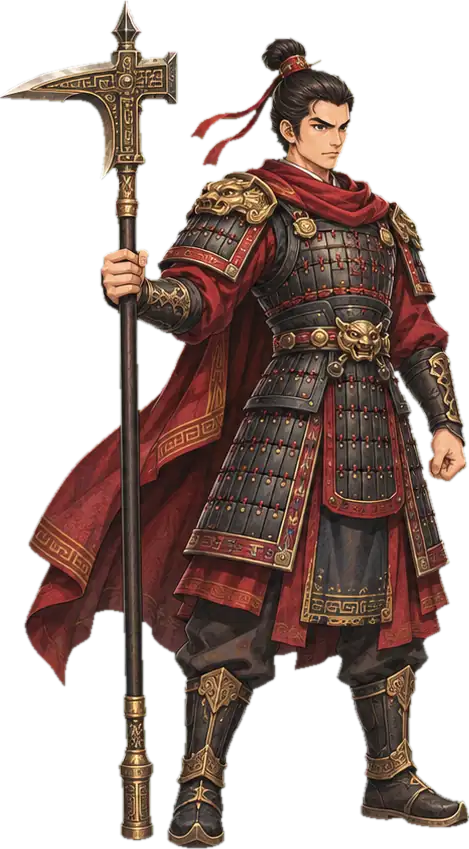
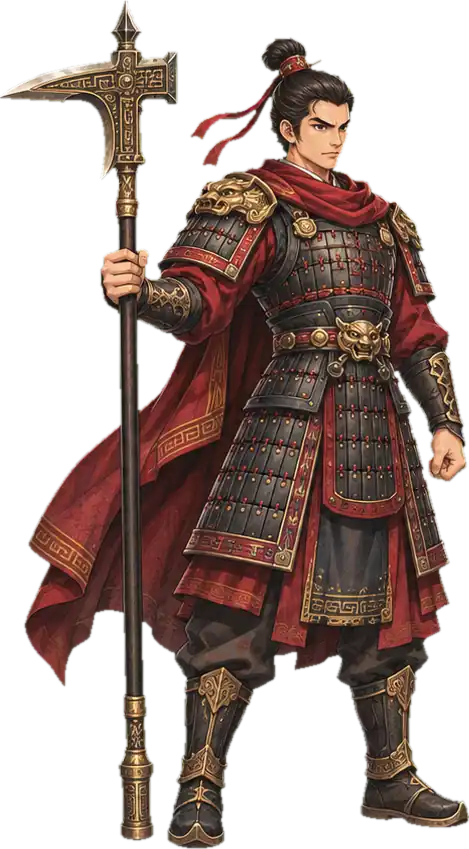
压低立绘/城镇背景画质以满足 16MB（构建中）
Claude-Session: https://claude.ai/code/session_01Ug7SvjxsTvGWtWQTYLfcGg

diff --git a/js/assets.js b/js/assets.js
@@ -11,6 +11,8 @@ window.ASSETS = {
   "b_fox": "assets/b_fox.webp",
   "b_girl": "assets/b_girl.webp",
   "b_hawk": "assets/b_hawk.webp",
+  "b_novice_f": "assets/b_novice_f.webp",
+  "b_novice_m": "assets/b_novice_m.webp",
   "b_player": "assets/b_player.webp",
   "b_rabbit": "assets/b_rabbit.webp",
   "b_tiger": "assets/b_tiger.webp",
@@ -178,11 +180,15 @@ window.ASSETS = {
   "walk_b_dao_qm_m": "assets/walk_b_dao_qm_m.webp",
   "walk_b_dao_ty": "assets/walk_b_dao_ty.webp",
   "walk_b_dao_ty_m": "assets/walk_b_dao_ty_m.webp",
+  "walk_b_novice_f": "assets/walk_b_novice_f.webp",
+  "walk_b_novice_m": "assets/walk_b_novice_m.webp",
   "walk_f": "assets/walk_f.webp",
   "walk_f_dao_qm": "assets/walk_f_dao_qm.webp",
   "walk_f_dao_qm_m": "assets/walk_f_dao_qm_m.webp",
   "walk_f_dao_ty": "assets/walk_f_dao_ty.webp",
   "walk_f_dao_ty_m": "assets/walk_f_dao_ty_m.webp",
+  "walk_f_novice_f": "assets/walk_f_novice_f.webp",
+  "walk_f_novice_m": "assets/walk_f_novice_m.webp",
   "wolf": "assets/wolf.webp",
   "world": "assets/world.webp"
  },
@@ -359,6 +365,34 @@ window.ASSETS = {
   ],
   "b_dao_qm": [
    112.0,
+   126.0
+  ],
+  "walk_f_novice_f": [
+   101.0,
+   121.0,
+   59.627906976744185
+  ],
+  "walk_b_novice_f": [
+   90.0,
+   123.5,
+   48.051238257899236
+  ],
+  "b_novice_f": [
+   117.0,
+   126.0
+  ],
+  "walk_f_novice_m": [
+   107.5,
+   120.0,
+   61.0
+  ],
+  "walk_b_novice_m": [
+   80.0,
+   122.5,
+   35.21258503401361
+  ],
+  "b_novice_m": [
+   128.0,
    126.0
   ],
   "walk_f_dao_ty_m": [

diff --git a/build.py b/build.py
@@ -155,7 +155,7 @@ def portraits(src, names):
     assert len(runs)==len(names),(src,runs)
     for n,(x0,x1) in zip(names,runs):
         c=im.crop((x0,0,x1,im.height)); c=c.crop(c.getchannel('A').point(lambda v:255 if v>40 else 0).getbbox())
-        c.save(f'{AD}/cls_{n}.webp',quality=50,method=6)
+        c.save(f'{AD}/cls_{n}.webp',quality=40,method=6)
         hx=c.width*HEAD_X[n]; sz=int(c.height*0.2); l=int(max(0,min(c.width-sz,hx-sz/2))); t=int(c.height*0.02)
         hd=Image.new('RGBA',(sz,sz),(43,36,64,255)); hd.alpha_composite(c.crop((l,t,l+sz,t+sz)))
         hd.resize((160,160),Image.LANCZOS).save(f'{AD}/head_{n}.webp',quality=90)
@@ -171,21 +171,21 @@ def dao_head(c,name):
     hd=Image.new('RGBA',(sz,sz),(43,36,64,255)); hd.alpha_composite(c.crop((l,t,l+sz,t+sz))); hd.resize((160,160),Image.LANCZOS).save(f'{AD}/head_{name}.webp',quality=90)
 for n,src in [('dao_ty',DA+'/port_ty.png' if os.path.exists(DA+'/port_ty.png') else DA+'/ref.png'),('dao_qm',DA+'/port_qm.png')]:
     c=keyed(src); c=c.crop(c.getchannel('A').point(lambda v:255 if v>40 else 0).getbbox())
-    c=c.resize((round(c.width*900/c.height),900),Image.LANCZOS); c.save(f'{AD}/cls_{n}.webp',quality=80,method=6); dao_head(c,n)
+    c=c.resize((round(c.width*900/c.height),900),Image.LANCZOS); c.save(f'{AD}/cls_{n}.webp',quality=64,method=6); dao_head(c,n)
 # 新手男 / 女：参考 kunkunxunqin 创角预览里的赤绳少年 / 青带少女，用本游戏的手绘画风重画（art-src/novice-kk/）
 NK=G+'/novice-kk'
 for k,n in [('nf','novice_f'),('nm','novice_m')]:
     walk_sheet(f'{NK}/walkf_{k}.png','walk_f_'+n,118); walk_sheet(f'{NK}/walkb_{k}.png','walk_b_'+n,118)
     cut_row(f'{NK}/back_{k}.png',['b_'+n],{'b_'+n:126})
     c=keyed(f'{NK}/port_{k}.png'); c=c.crop(c.getchannel('A').point(lambda v:255 if v>40 else 0).getbbox())
-    c=c.resize((round(c.width*900/c.height),900),Image.LANCZOS); c.save(f'{AD}/cls_{n}.webp',quality=80,method=6); dao_head(c,n)
+    c=c.resize((round(c.width*900/c.height),900),Image.LANCZOS); c.save(f'{AD}/cls_{n}.webp',quality=64,method=6); dao_head(c,n)
 # 道家男角色（天音 / 琴魔）：人物参考新手男，风格参考女主
 DM=G+'/daoist-m'
 for k in ['ty','qm']:
     n='dao_'+k+'_m'
     walk_sheet(f'{DM}/walkf_{k}.png','walk_f_'+n,118); walk_sheet(f'{DM}/walkb_{k}.png','walk_b_'+n,118)
     c=keyed(f'{DM}/port_{k}.png'); c=c.crop(c.getchannel('A').point(lambda v:255 if v>40 else 0).getbbox())
-    c=c.resize((round(c.width*900/c.height),900),Image.LANCZOS); c.save(f'{AD}/cls_{n}.webp',quality=80,method=6); dao_head(c,n)
+    c=c.resize((round(c.width*900/c.height),900),Image.LANCZOS); c.save(f'{AD}/cls_{n}.webp',quality=64,method=6); dao_head(c,n)
 cut_row(DM+'/back.png',['b_dao_ty_m','b_dao_qm_m'],dict(b_dao_ty_m=126,b_dao_qm_m=126))
 # 大地图：城镇用整张原图，城外用新图；各配一张小地图用的缩略图
 t=Image.open(G+'/town6.jpg').convert('RGB'); t.save(f'{AD}/bg_town.jpg',quality=95); t.resize((512,round(512*t.height/t.width)),Image.LANCZOS).save(f'{AD}/mini_town.jpg',quality=80)
@@ -195,7 +195,7 @@ b=Image.open(G+'/battle.png').convert('RGB'); cw=round(b.height*9/16); x0=(b.wid
 b.crop((x0,0,x0+cw,b.height)).save(f'{AD}/bg_battle.jpg',quality=88,optimize=True)
 
 from PIL import ImageFilter
-for n,q in [('bg_town',36),('bg_village',68),('bg_wild',78),('world',50),('bg_battle',72),('bg_battle2',72),('login',74),('bg_taixuforest',74),('bg_taixupeak',74),('bg_taixuvalley',74),('bg_outskirts',70),('bg_creek',70),('bg_mist',70),('bg_pine',64),('bg_wolfvalley',78)]:
+for n,q in [('bg_town',33),('bg_village',68),('bg_wild',78),('world',50),('bg_battle',72),('bg_battle2',72),('login',74),('bg_taixuforest',74),('bg_taixupeak',74),('bg_taixuvalley',74),('bg_outskirts',70),('bg_creek',70),('bg_mist',70),('bg_pine',64),('bg_wolfvalley',78)]:
     p=f'{AD}/{n}.jpg'
     if not os.path.exists(p): continue
     im=Image.open(p).convert('RGB')
